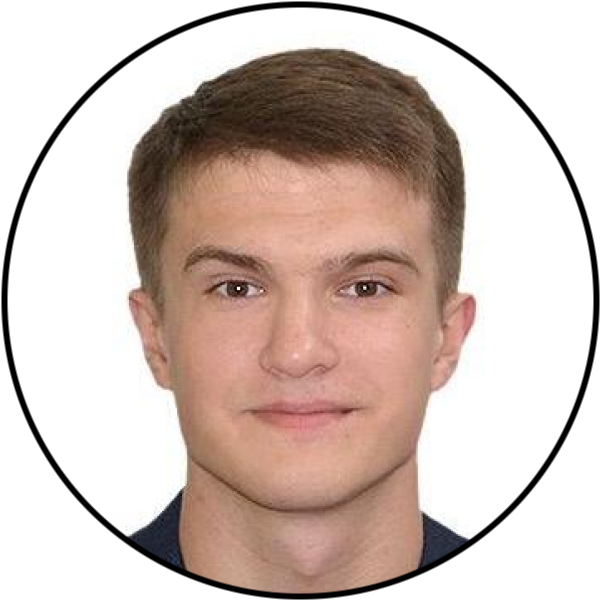
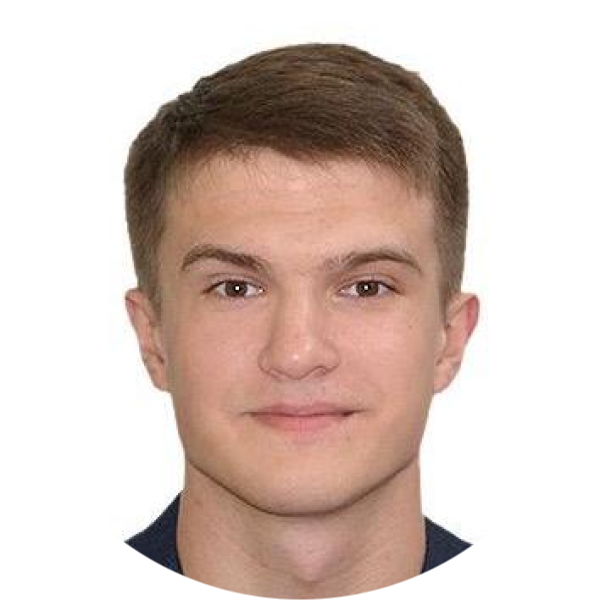
change-photo+add-styles

diff --git a/src/partials/footer.html b/src/partials/footer.html
@@ -18,44 +18,45 @@
             <h2 class="footer__title">CodeTails TEAM</h2>
              <ul class="footer__list">
       <li class="footer__item">
-        <img class="footer__image" src="./img/developers/1.png" />
+        <img class="footer__image"  width="55px" height="55px" src="./img/developers/1.png" />
         <a href="https://github.com/tkravche">
-        <p class="modal__text" > Omelianchyk <br> Kateryna </p></a>
+        <p class="modal__text" > Kryshtalova <br> Tetiana </p></a>
       </li>
       <li class="footer__item"> <a href="https://github.com/jarastar">
-        <img class="footer__image" src="./img/developers/2.png" />
+        <img class="footer__image" width="55px" height="55px" 
+   src="./img/developers/2.png" />
         <p class="modal__text" > Yarosevych <br> Taras </p></a>
       </li>
       <li class="footer__item"> <a href="https://github.com/OlenaUsikova">
-        <img class="footer__image" src="./img/developers/3.png" />
+        <img class="footer__image"  width="55px" height="55px" src="./img/developers/3.png" />
          <p class="modal__text" > Usik <br> Olena </p></a>
       </li>
       <li class="footer__item"> <a href="https://github.com/artemivanichenko">
-        <img class="footer__image" src="./img/developers/4.png" />
+        <img class="footer__image"  width="55px" height="55px" src="./img/developers/4.png" />
          <p class="modal__text" > Ivanichenko <br> Artem </p></a>
       </li>
       <li class="footer__item"> <a href="https://github.com/Katrin9959">
-        <img class="footer__image" src="./img/developers/5.png" />
+        <img class="footer__image"  width="55px" height="55px" src="./img/developers/5.png" />
          <p class="modal__text" > Omelianchyk <br> Kateryna </p></a>
       </li>
       <li class="footer__item"> <a href="https://github.com/R0nde1">
-        <img class="footer__image" src="./img/developers/6.png" />
+        <img class="footer__image"  width="55px" height="55px"  src="./img/developers/6.png" />
          <p class="modal__text" > Surname <br> Ronald </p></a>
       </li>
       <li class="footer__item"> <a href="https://github.com/SkybaMaryna">
-        <img class="footer__image" src="./img/developers/7.png" />
+        <img class="footer__image"  width="55px" height="55px" src="./img/developers/7.png" />
          <p class="modal__text"> Skyba <br> Maryna </p></a>
       </li>
       <li class="footer__item"> <a href="https://github.com/">
-        <img class="footer__image" src="./img/developers/8.png" />
+        <img class="footer__image"  width="55px" height="55px" src="./img/developers/8.png" />
          <p class="modal__text"> Filippov <br> Vladyslav </p></a>
       </li>
       <li class="footer__item"> <a href="https://github.com/MariyaGanina">
-        <img class="footer__image" src="./img/developers/9.png" />
+        <img class="footer__image"  width="55px" height="55px" src="./img/developers/9.png" />
          <p class="modal__text" > Ganina <br> Mariya </p></a>
       </li>
       <li class="footer__item"> <a href="https://github.com/Snovanakid">
-        <img class="footer__image" src="./img/developers/10.png" />
+        <img class="footer__image"  width="55px" height="55px" src="./img/developers/10.png" />
          <p class="modal__text" > Palamarchuk <br> Denis </p></a>
       </li>
     </ul>

diff --git a/src/sass/layout/_footer.scss b/src/sass/layout/_footer.scss
@@ -53,19 +53,7 @@
     line-height: 1.5;
   }
 }
-.footer__image {
-  border: 2px solid;
 
-  border-radius: 50%;
-  border-color: $main;
-  width: 53px;
-  @media screen and (min-width: 768px) {
-    width: 80px;
-  }
-  @media screen and (min-width: 1280px) {
-    width: 120px;
-  }
-}
 .footer__link {
   text-decoration: underline;
   background-color: transparent;
@@ -77,12 +65,6 @@
   flex-wrap: wrap;
   justify-content: center;
   gap: 30px;
-}
-.footer__item {
-  display: flex;
-  flex-direction: column;
-  align-items: center;
-  font-size: 12px;
 }
 
 .modal-footer {
@@ -99,7 +81,7 @@
 
   @media screen and (min-width: 768px) {
     padding: 30px 15px;
-    width: 700px;
+    width: 710px;
     height: auto;
   }
   @media screen and (min-width: 1280px) {
@@ -110,32 +92,53 @@
 .modal-content {
   margin: 20px auto;
 }
-.close {
-  color: #aaa;
-  float: right;
-  font-size: 28px;
-  font-weight: bold;
-}
+// .close {
+//   color: #aaa;
+//   float: right;
+//   font-size: 28px;
+//   font-weight: bold;
+// }
 
-.close:hover,
-.close:focus {
-  color: $main-black;
-  text-decoration: none;
-  cursor: pointer;
+// .close:hover,
+// .close:focus {
+//   color: $main-black;
+//   text-decoration: none;
+//   cursor: pointer;
+// }
+.footer__item {
+  display: flex;
+  flex-direction: column;
+  align-items: center;
+  font-size: 12px;
+}
+.footer__image {
+  border: 2px solid;
+  border-radius: 50%;
+  border-color: $main;
+
+  @media screen and (min-width: 768px) {
+    width: 80px;
+    height: 80px;
+  }
+  @media screen and (min-width: 1280px) {
+    width: 120px;
+    height: 120px;
+  }
 }
 .modal__text {
-  font-weight: 700;
-  font-size: 8px;
-  line-height: 0.76;
+  font-weight: 400;
+  font-size: 9px;
+  line-height: 1.4;
   color: $main-black;
+  margin-top: 10px;
   @media screen and (min-width: 768px) {
-    font-weight: 700;
-    font-size: 12px;
-    line-height: 1.14;
+    font-weight: 500;
+    font-size: 14px;
+    line-height: 1.4;
     color: $main-black;
   }
   @media screen and (min-width: 1280px) {
-    font-weight: 700;
+    font-weight: 600;
     font-size: 17px;
     line-height: 1.7;
     color: $main-black;
